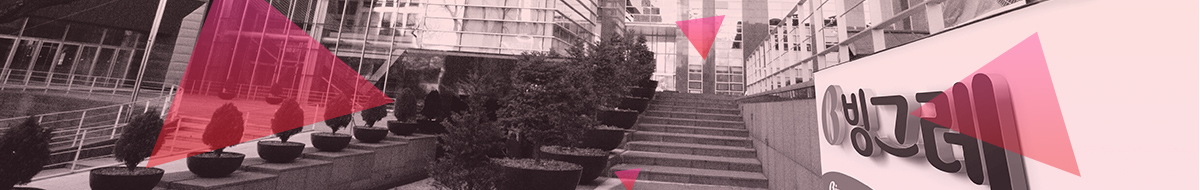
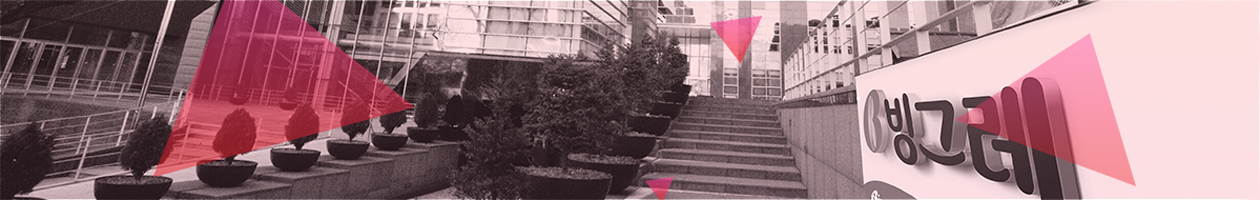
site

diff --git a/site/04homepage/css/style.css b/site/04homepage/css/style.css
@@ -329,53 +329,51 @@ div.b_logo{margin:10px auto;
 
 /*sub_page*/
 
-header#sub_hd .main_menu{ _background-color: #0f0;
+#sub_hd .main_menu{ height: 300px;
+	background:#ccc url(../images/sub_story/sub_visual_about.jpg) no-repeat center 100%;
 	width: 100%;
+	/*-webkit-background-size: cover;
+	background-size: cover;*/
 }
 
-
-
 #sub_hd .main_menu .gnb_wrap{
-	margin:0 auto;	position: relative;
+	margin:0 auto;	
 	width: 1260px;height:70px;
 	}
-#sub_hd .gnb_wrap h1{cursor: pointer;
+#sub_hd .gnb_wrap h1{cursor: pointer;float: left;
 	width: 150px;line-height:70px; text-indent:-9999px; 
 	background: url(../images/main/logo_pc.png)no-repeat center;}
 
 ul.sub{display: none;}
 
-#sub_hd .gnb_wrap .subgnb{float: right;height:70px;margin:0 auto;}
-#sub_hd .gnb_wrap .subgnb>ul{width: 830px;height: 70px;
-	position: absolute; right:100px; top:0;}
-#sub_hd .gnb_wrap .subgnb>ul>li{
-	float: left;width: 20%;}
+#sub_hd .gnb_wrap .subgnb{ position: relative;
+	float: right; width: 950px;height:70px;margin:0 auto;}
+#sub_hd .gnb_wrap .subgnb>ul{float: left;width: 830px;height: 70px;}
+#sub_hd .gnb_wrap .subgnb>ul>li{padding:0 40px;
+	float: left;}
+#sub_hd .gnb_wrap .subgnb>ul>li:last-child{padding-right: none;}
 #sub_hd .gnb_wrap .subgnb>ul>li:hover ul.sub{display: block;}
 #sub_hd .gnb_wrap .subgnb>ul>li>a{text-align:center;display: block;
 	color:#000; font-weight: bold;line-height: 70px;}
 #sub_hd .gnb_wrap .subgnb>ul>li>a:hover{color: #ed1c24;}
 #sub_hd .gnb_wrap .subgnb>ul>li>a:after{content:"";display: block;
-	background-color: #ed1c24;width: 31%;height: 3px;
-	/*position: absolute; bottom: -1px; *//*left: 50%;*/}
+	background-color: #ed1c24;width: 7%;height: 3px;transition:0.3s;
+	margin: -3px auto;	}
+#sub_hd .gnb_wrap .subgnb>ul>li:hover a:after{width: 100%;}
 
-#sub_hd .gnb_wrap .subgnb ul li a:hover{}
-#sub_hd .gnb_wrap ul.sub{width:100%;_background-color: #ccc;}
-#sub_hd .gnb_wrap ul.sub li{width: 166px;}
-#sub_hd .gnb_wrap ul.sub li a{
-	display: block; text-align: center;
-	line-height: 40px;font-size:13px;font-weight: bold;}
+#sub_hd .gnb_wrap ul.sub{position: absolute;top:70px;width:100px;left:8px;}
+#sub_hd .gnb_wrap ul.sub li{width:115px;padding: 3px 0; background-color: rgba(255,255,255,0.5);}
+#sub_hd .gnb_wrap ul.sub li a{display: block; text-align: center;
+	line-height: 35px;font-size:12px;font-weight: bold;}
+#sub_hd .gnb_wrap ul.sub li a:hover{color: #ed1c24;font-weight: bold;}
 
-
-#sub_hd .main_menu .gnb_wrap{
-	border-bottom: 1px solid rgba(150,150,150,0.5);}
-
-
-.sblang_select{
-	position: absolute; right:0;top:50%; margin-top:-16px;
-	
-}
+.sblang_select{float: right; padding-top: 20px;}
 .sblang_select a{float: left; margin-right:3px; text-align:center;
 	font-weight: bold; line-height: 28px; font-size:0.8em;}
 .sblang_select a:hover p{width: 40px; height: 32px; color:#fff;background-color: #79797a;}
 .sblang_select a>p:nth-child(1){
 	width: 40px; height: 32px; border: 2px solid #79797a;}
+
+
+#sub_hd .main_menu .gnb_wrap{
+	border-bottom: 1px solid rgba(150,150,150,0.8);}

diff --git a/site/04homepage/sub/brand/sub_brand.html b/site/04homepage/sub/brand/sub_brand.html
@@ -10,7 +10,7 @@
 <body>
 	<header id="sub_hd">
 		<div class="main_menu">
-			<nav class="gnb_wrap">
+			<nav class="gnb_wrap clearfix">
 				<h1><a href="#">빙그레</a></h1>
 				<div class="subgnb">
 					<ul class="clearfix">
@@ -23,16 +23,38 @@
 								<li><a href="#">사회공헌</a></li>
 							</ul> 
 						</li>
-						<li><a href="#">브랜드</a></li>
-						<li><a href="#">라이브</a></li>
-						<li><a href="#">플래그쉽스토어</a></li>
+						<li><a href="#" >브랜드</a>
+							<ul class="sub" style="padding-left: 126px">
+								<li><a href="#">아이스크림</a></li>
+								<li><a href="#">우유/가공유</a></li>
+								<li><a href="#">발효유</a></li>
+								<li><a href="#">커피/음료</a></li>
+								<li><a href="#">스낵/디저트</a></li>
+							</ul> 
+						</li>
+						<li><a href="#">라이브</a>
+							<ul class="sub" style="padding-left: 255px">
+								<li><a href="#">소셜라이브</a></li>
+								<li><a href="#">빙그레영상</a></li>
+								<li><a href="#">함께해요이벤트</a></li>
+								<li><a href="#">공지사항</a></li>
+								<li><a href="#">보도자료</a></li>
+							</ul> 
+						</li>
+						<li><a href="#">플래그쉽스토어</a>
+							<ul class="sub" style="padding-left: 415px">
+								<li><a href="#">소프트랩</a></li>
+								<li><a href="#">옐로우카페</a></li>
+							</ul> 
+						</li>
 						<li><a href="#">인재채용</a></li>
 					</ul>
+					<div class="sblang_select">
+						<a href="#"><p>KOR</p></a>
+						<a href="#"><p>ENG</p></a>
+					</div>
 				</div>
-				<div class="sblang_select">
-					<a href="#"><p>KOR</p></a>
-					<a href="#"><p>ENG</p></a>
-				</div>
+				
 			</nav>
 		</div>
 		
